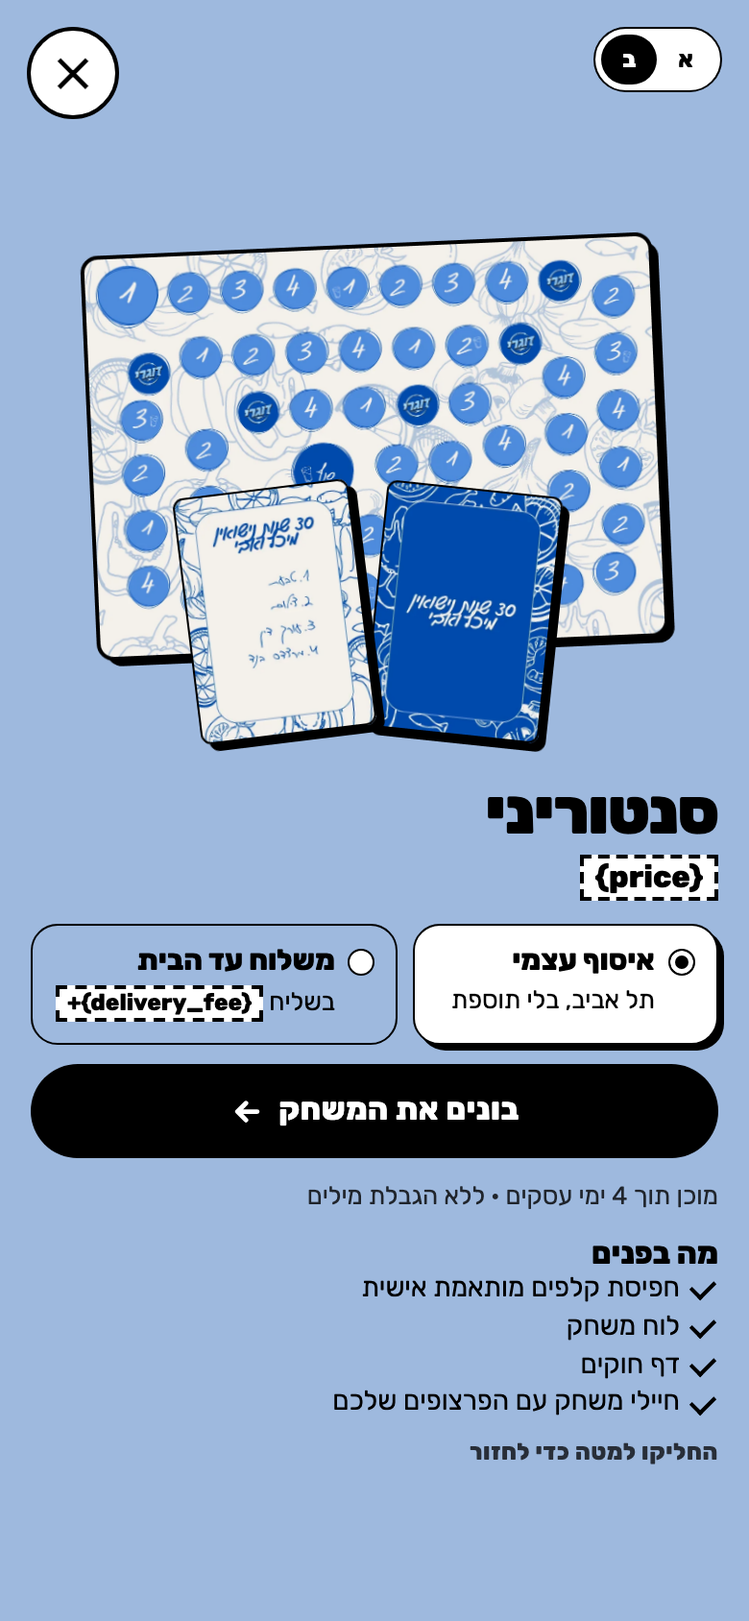
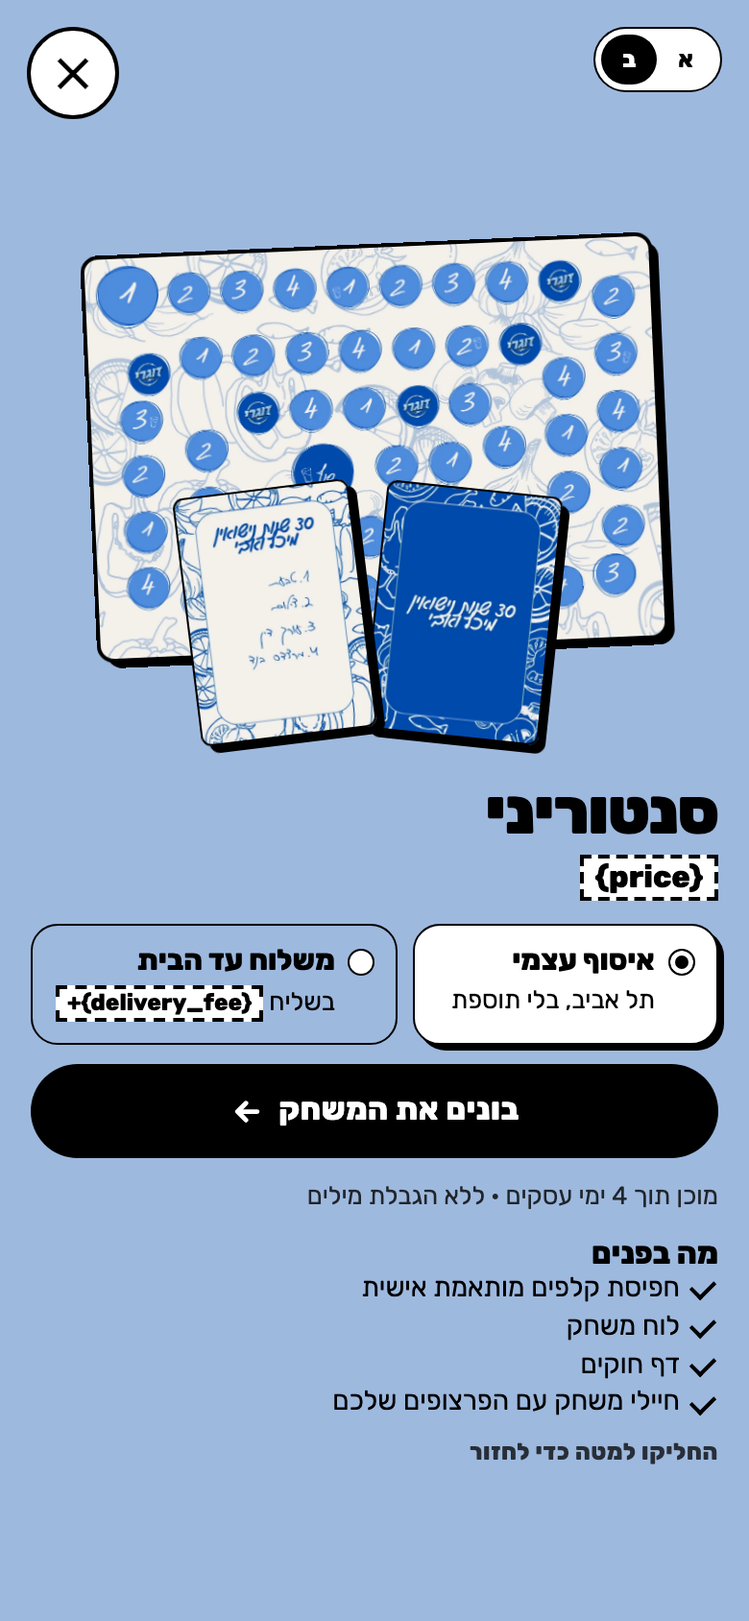
docs(redesign): r13 takes the owner's illustration placements, adds a blue star kind

diff --git a/redesign/directions/r13.html b/redesign/directions/r13.html
@@ -529,7 +529,7 @@
   </div>
 
   <div class="pal" id="pal" role="toolbar" aria-label="עורך האיורים">
-    <div class="row1"><button class="add" type="button" data-t="glass" title="שעון חול"><span class="illo"><svg class="il" viewBox="0 0 120 120" aria-hidden="true" focusable="false"><ellipse cx="60" cy="106" rx="26" ry="3.5" fill="#ece3d5" class="n"/><g class="a i13r" style="--d:10s;--dl:0s;--o:50% 50%;"><path class="n" d="M44,33 C44,48 56,55 57.5,62 C56,69 44,76 44,91 L76,91 C76,76 64,69 62.5,62 C64,55 76,48 76,33Z" fill="#fffdf8"/><g class="a i13a" style="--d:10s;--dl:0s;--o:50% 50%;"><path class="n" d="M47.5,38 C49,49 55,55 60,60 C65,55 71,49 72.5,38 Q60,41 47.5,38Z" fill="#f7dc72"/></g><g class="a i13b" style="--d:10s;--dl:0s;--o:50% 50%;"><path class="n" d="M46,92 Q49,79 60,77 Q71,79 74,92Z" fill="#f7dc72"/></g><path d="M60,63 V89" stroke="#f2c14e" stroke-width="1.6" class="a i13s" style="--d:10s"/><path d="M44,33 C44,48 56,55 57.5,62 C56,69 44,76 44,91 M76,33 C76,48 64,55 62.5,62 C64,69 76,76 76,91"/><path class="h" d="M48,36 C48,44 51,49 54,53 C51,48 50,43 50.5,36Z" opacity=".9"/><rect x="38" y="91" width="44" height="7" rx="3" fill="#f7b58e"/><rect x="38" y="26" width="44" height="7" rx="3" fill="#f7b58e"/><rect x="38.5" y="33" width="4" height="58" rx="2" fill="#ece3d5"/><rect x="77.5" y="33" width="4" height="58" rx="2" fill="#ece3d5"/></g><g class="a tw" style="--d:4s;--dl:0s;--o:50% 50%;"><path d="M22.0,27.0 Q22.8,31.2 27.0,32.0 Q22.8,32.8 22.0,37.0 Q21.2,32.8 17.0,32.0 Q21.2,31.2 22.0,27.0Z" fill="#f7dc72" /></g><g class="a tw" style="--d:5s;--dl:-2s;--o:50% 50%;"><path class="t" d="M96.0,36.0H104.0M100.0,32.0V40.0" /></g><circle class="t" cx="98" cy="80" r="2.4" fill="none"/><circle cx="22" cy="76" r="1.6" fill="#1b1a19" stroke="none"/></svg></span>שעון חול</button><button class="add" type="button" data-t="popper" title="פופר"><span class="illo"><svg class="il" viewBox="0 0 120 120" aria-hidden="true" focusable="false"><ellipse cx="40" cy="108" rx="26" ry="3" fill="#ece3d5" class="n"/><g class="a rise" style="--d:3.2s;--dl:0s;--o:50% 50%;--x:22px;--y:-30px"><rect x="62" y="48" width="9" height="5" rx="1.2" fill="#f0866a" class="t"/></g><g class="a rise" style="--d:3.2s;--dl:-0.5s;--o:50% 50%;--x:36px;--y:-22px"><circle cx="66" cy="52" r="3.4" fill="#9ed7bf" class="t"/></g><g class="a rise" style="--d:3.2s;--dl:-1s;--o:50% 50%;--x:30px;--y:-40px"><rect x="62" y="48" width="9" height="5" rx="1.2" fill="#c9b8ec" class="t"/></g><g class="a rise" style="--d:3.2s;--dl:-1.6s;--o:50% 50%;--x:40px;--y:-36px"><path d="M66.0,46.0 Q67.0,51.0 72.0,52.0 Q67.0,53.0 66.0,58.0 Q65.0,53.0 60.0,52.0 Q65.0,51.0 66.0,46.0Z" fill="#f7dc72" stroke-width="1.3" /></g><g class="a rise" style="--d:3.2s;--dl:-2.2s;--o:50% 50%;--x:14px;--y:-42px"><path d="M60,54 q3,-6 6,0 t6,0" stroke="#ea4795" stroke-width="2.4"/></g><g class="a rise" style="--d:3.2s;--dl:-2.8s;--o:50% 50%;--x:42px;--y:-8px"><rect x="62" y="48" width="9" height="5" rx="1.2" fill="#a8cdee" class="t"/></g><g class="a rise" style="--d:3.2s;--dl:-0.9s;--o:50% 50%;--x:24px;--y:-16px"><circle cx="66" cy="52" r="3.4" fill="#ea4795" class="t"/></g><g class="a rise" style="--d:3.2s;--dl:-3.3s;--o:50% 50%;--x:44px;--y:-26px"><path d="M60,54 q3,-6 6,0 t6,0" stroke="#9ed7bf" stroke-width="2.4"/></g><clipPath id="i25c"><path d="M25.5,103.5 L18.5,96.5 L56.2,50.2 L71.8,65.8Z"/></clipPath><path d="M25.5,103.5 L18.5,96.5 L56.2,50.2 L71.8,65.8Z" fill="#f7dc72"/><g clip-path="url(#i25c)"><path class="n" d="M-110,0 L10,120 L17,120 L-103,0Z" fill="#ea4795"/><path class="n" d="M-95,0 L25,120 L32,120 L-88,0Z" fill="#ea4795"/><path class="n" d="M-80,0 L40,120 L47,120 L-73,0Z" fill="#ea4795"/><path class="n" d="M-65,0 L55,120 L62,120 L-58,0Z" fill="#ea4795"/><path class="n" d="M-50,0 L70,120 L77,120 L-43,0Z" fill="#ea4795"/><path class="n" d="M-35,0 L85,120 L92,120 L-28,0Z" fill="#ea4795"/><path class="n" d="M-20,0 L100,120 L107,120 L-13,0Z" fill="#ea4795"/><path class="n" d="M-5,0 L115,120 L122,120 L2,0Z" fill="#ea4795"/><path class="n" d="M10,0 L130,120 L137,120 L17,0Z" fill="#ea4795"/><path class="n" d="M25,0 L145,120 L152,120 L32,0Z" fill="#ea4795"/><path class="n" d="M40,0 L160,120 L167,120 L47,0Z" fill="#ea4795"/><path class="n" d="M55,0 L175,120 L182,120 L62,0Z" fill="#ea4795"/><path class="n" d="M70,0 L190,120 L197,120 L77,0Z" fill="#ea4795"/></g><path d="M25.5,103.5 L18.5,96.5 L56.2,50.2 L71.8,65.8Z"/><ellipse cx="64" cy="58" rx="11" ry="4.2" transform="rotate(45 64 58)" fill="#fbf6ee"/><path d="M18.5,96.5 L25.5,103.5 L21,108 L14,101Z" fill="#ea4795"/><g class="a tw" style="--d:3.2s;--dl:-1s;--o:50% 50%;"><path d="M96.0,16.0 Q97.0,21.0 102.0,22.0 Q97.0,23.0 96.0,28.0 Q95.0,23.0 90.0,22.0 Q95.0,21.0 96.0,16.0Z" fill="#f7dc72" /></g><g class="a tw" style="--d:3.2s;--dl:-2s;--o:50% 50%;"><path class="t" d="M98.0,66.0H106.0M102.0,62.0V70.0" /></g><g class="a tw" style="--d:3.2s;--dl:-0.5s;--o:50% 50%;"><path class="t" d="M68.5,20.0H75.5M72.0,16.5V23.5" /></g></svg></span>פופר</button><button class="add" type="button" data-t="disco" title="כדור דיסקו"><span class="illo"><svg class="il" viewBox="0 0 120 120" aria-hidden="true" focusable="false"><path d="M60,8 V30" stroke-width="1.8"/><rect x="54" y="30" width="12" height="7" rx="2" fill="#ece3d5"/><g class="a sway" style="--d:3s;--dl:0s;--o:50% 0%;--r:3deg"><g><clipPath id="i27c"><circle cx="60" cy="64" r="28"/></clipPath><circle cx="60" cy="64" r="28" fill="#c9b8ec"/><g clip-path="url(#i27c)"><rect x="60" y="36" width="8" height="8" fill="#ffffff" stroke="none" opacity=".75"/><rect x="52" y="44" width="8" height="8" fill="#ffffff" stroke="none" opacity=".75"/><rect x="76" y="44" width="8" height="8" fill="#ffffff" stroke="none" opacity=".75"/><rect x="44" y="52" width="8" height="8" fill="#ffffff" stroke="none" opacity=".75"/><rect x="68" y="52" width="8" height="8" fill="#ffffff" stroke="none" opacity=".75"/><rect x="36" y="60" width="8" height="8" fill="#ffffff" stroke="none" opacity=".75"/><rect x="60" y="60" width="8" height="8" fill="#ffffff" stroke="none" opacity=".75"/><rect x="52" y="68" width="8" height="8" fill="#ffffff" stroke="none" opacity=".75"/><rect x="76" y="68" width="8" height="8" fill="#ffffff" stroke="none" opacity=".75"/><rect x="44" y="76" width="8" height="8" fill="#ffffff" stroke="none" opacity=".75"/><rect x="68" y="76" width="8" height="8" fill="#ffffff" stroke="none" opacity=".75"/><rect x="60" y="84" width="8" height="8" fill="#ffffff" stroke="none" opacity=".75"/><path class="n" d="M32,64 A28,28 0 0 0 88,64 Q60,76 32,64Z" fill="#a994da"/><path class="t" d="M45.6,40 H74.4"/><path class="t" d="M37.0,48 H83.0"/><path class="t" d="M33.2,56 H86.8"/><path class="t" d="M32.0,64 H88.0"/><path class="t" d="M33.2,72 H86.8"/><path class="t" d="M37.0,80 H83.0"/><path class="t" d="M45.6,88 H74.4"/><path class="t" d="M60,36 V92"/><ellipse class="t" cx="60" cy="64" rx="8" ry="28" fill="none"/><ellipse class="t" cx="60" cy="64" rx="17" ry="28" fill="none"/><ellipse class="t" cx="60" cy="64" rx="24" ry="28" fill="none"/></g><circle cx="60" cy="64" r="28" fill="none"/><path class="h" d="M44,52 l6,0 l0,6 l-6,0Z M52,46 l6,0 l0,5 l-6,0Z"/></g></g><g class="a tw" style="--d:2.6s;--dl:0s;--o:50% 50%;--r:90deg"><path d="M84.0,42.0 Q85.3,48.7 92.0,50.0 Q85.3,51.3 84.0,58.0 Q82.7,51.3 76.0,50.0 Q82.7,48.7 84.0,42.0Z" fill="#ffffff" /></g><g class="a tw" style="--d:2.6s;--dl:-1.3s;--o:50% 50%;--r:90deg"><path d="M40.0,74.0 Q41.0,79.0 46.0,80.0 Q41.0,81.0 40.0,86.0 Q39.0,81.0 34.0,80.0 Q39.0,79.0 40.0,74.0Z" fill="#ffffff" /></g><g class="a tw" style="--d:3.4s;--dl:-0.6s;--o:50% 50%;--r:-90deg"><path d="M100.0,78.0 Q101.0,83.0 106.0,84.0 Q101.0,85.0 100.0,90.0 Q99.0,85.0 94.0,84.0 Q99.0,83.0 100.0,78.0Z" fill="#f7dc72" /></g><g class="a tw" style="--d:3.4s;--dl:-2s;--o:50% 50%;--r:90deg"><path d="M20.0,41.0 Q20.8,45.2 25.0,46.0 Q20.8,46.8 20.0,51.0 Q19.2,46.8 15.0,46.0 Q19.2,45.2 20.0,41.0Z" fill="#ea4795" /></g><path class="t" d="M24,98 l6,-4 M96,22 l-5,4 M104,60 h-6"/></svg></span>כדור דיסקו</button><button class="add" type="button" data-t="sparks" title="נצנוצים"><span class="illo"><svg class="il" viewBox="0 0 120 120" aria-hidden="true" focusable="false"><g class="a tw" style="--d:3s;--dl:0s;--o:50% 50%;--r:45deg"><path d="M54.0,36.0 Q58.7,57.3 80.0,62.0 Q58.7,66.7 54.0,88.0 Q49.3,66.7 28.0,62.0 Q49.3,57.3 54.0,36.0Z" fill="#f7dc72" /></g><g class="a tw" style="--d:3s;--dl:-1s;--o:50% 50%;--r:-45deg"><path d="M88.0,17.0 Q90.3,27.7 101.0,30.0 Q90.3,32.3 88.0,43.0 Q85.7,32.3 75.0,30.0 Q85.7,27.7 88.0,17.0Z" fill="#ea4795" /></g><g class="a tw" style="--d:3s;--dl:-2s;--o:50% 50%;--r:45deg"><path d="M90.0,79.0 Q91.6,86.4 99.0,88.0 Q91.6,89.6 90.0,97.0 Q88.4,89.6 81.0,88.0 Q88.4,86.4 90.0,79.0Z" fill="#ffffff" /></g><circle cx="30" cy="28" r="1.6" fill="#1b1a19" stroke="none"/><circle cx="102" cy="60" r="1.4" fill="#1b1a19" stroke="none"/><circle class="t" cx="22" cy="96" r="2.4" fill="none"/><g class="a tw" style="--d:3s;--dl:-0.5s;--o:50% 50%;"><path class="t" d="M22.5,46.0H29.5M26.0,42.5V49.5" /></g></svg></span>נצנוצים</button><button class="add" type="button" data-t="star" title="כוכב שחור"><span class="illo"><svg class="il" viewBox="0 0 40 40" aria-hidden="true" focusable="false"><g class="a twk" style="--d:5.5s;--r:45deg"><path d="M20 2c1.6 9.6 8.4 16.4 18 18-9.6 1.6-16.4 8.4-18 18-1.6-9.6-8.4-16.4-18-18 9.6-1.6 16.4-8.4 18-18Z" fill="#000" stroke="#000" /></g></svg></span>כוכב שחור</button><button class="add" type="button" data-t="pstar" title="כוכב ורוד"><span class="illo"><svg class="il" viewBox="0 0 40 40" aria-hidden="true" focusable="false"><g class="a twk" style="--d:6.4s;--dl:-2s;--r:-45deg"><path d="M20 2c1.6 9.6 8.4 16.4 18 18-9.6 1.6-16.4 8.4-18 18-1.6-9.6-8.4-16.4-18-18 9.6-1.6 16.4-8.4 18-18Z" fill="#ea4795" stroke-width="2.4" /></g></svg></span>כוכב ורוד</button><button class="add" type="button" data-t="cross" title="פלוס"><span class="illo"><svg class="il" viewBox="0 0 16 16" aria-hidden="true" focusable="false"><g class="a twk" style="--d:7s;--dl:-3s;--r:0deg"><path d="M8 2v12M2 8h12" stroke-width="1.6" /></g></svg></span>פלוס</button></div>
+    <div class="row1"><button class="add" type="button" data-t="glass" title="שעון חול"><span class="illo"><svg class="il" viewBox="0 0 120 120" aria-hidden="true" focusable="false"><ellipse cx="60" cy="106" rx="26" ry="3.5" fill="#ece3d5" class="n"/><g class="a i13r" style="--d:10s;--dl:0s;--o:50% 50%;"><path class="n" d="M44,33 C44,48 56,55 57.5,62 C56,69 44,76 44,91 L76,91 C76,76 64,69 62.5,62 C64,55 76,48 76,33Z" fill="#fffdf8"/><g class="a i13a" style="--d:10s;--dl:0s;--o:50% 50%;"><path class="n" d="M47.5,38 C49,49 55,55 60,60 C65,55 71,49 72.5,38 Q60,41 47.5,38Z" fill="#f7dc72"/></g><g class="a i13b" style="--d:10s;--dl:0s;--o:50% 50%;"><path class="n" d="M46,92 Q49,79 60,77 Q71,79 74,92Z" fill="#f7dc72"/></g><path d="M60,63 V89" stroke="#f2c14e" stroke-width="1.6" class="a i13s" style="--d:10s"/><path d="M44,33 C44,48 56,55 57.5,62 C56,69 44,76 44,91 M76,33 C76,48 64,55 62.5,62 C64,69 76,76 76,91"/><path class="h" d="M48,36 C48,44 51,49 54,53 C51,48 50,43 50.5,36Z" opacity=".9"/><rect x="38" y="91" width="44" height="7" rx="3" fill="#f7b58e"/><rect x="38" y="26" width="44" height="7" rx="3" fill="#f7b58e"/><rect x="38.5" y="33" width="4" height="58" rx="2" fill="#ece3d5"/><rect x="77.5" y="33" width="4" height="58" rx="2" fill="#ece3d5"/></g><g class="a tw" style="--d:4s;--dl:0s;--o:50% 50%;"><path d="M22.0,27.0 Q22.8,31.2 27.0,32.0 Q22.8,32.8 22.0,37.0 Q21.2,32.8 17.0,32.0 Q21.2,31.2 22.0,27.0Z" fill="#f7dc72" /></g><g class="a tw" style="--d:5s;--dl:-2s;--o:50% 50%;"><path class="t" d="M96.0,36.0H104.0M100.0,32.0V40.0" /></g><circle class="t" cx="98" cy="80" r="2.4" fill="none"/><circle cx="22" cy="76" r="1.6" fill="#1b1a19" stroke="none"/></svg></span>שעון חול</button><button class="add" type="button" data-t="popper" title="פופר"><span class="illo"><svg class="il" viewBox="0 0 120 120" aria-hidden="true" focusable="false"><ellipse cx="40" cy="108" rx="26" ry="3" fill="#ece3d5" class="n"/><g class="a rise" style="--d:3.2s;--dl:0s;--o:50% 50%;--x:22px;--y:-30px"><rect x="62" y="48" width="9" height="5" rx="1.2" fill="#f0866a" class="t"/></g><g class="a rise" style="--d:3.2s;--dl:-0.5s;--o:50% 50%;--x:36px;--y:-22px"><circle cx="66" cy="52" r="3.4" fill="#9ed7bf" class="t"/></g><g class="a rise" style="--d:3.2s;--dl:-1s;--o:50% 50%;--x:30px;--y:-40px"><rect x="62" y="48" width="9" height="5" rx="1.2" fill="#c9b8ec" class="t"/></g><g class="a rise" style="--d:3.2s;--dl:-1.6s;--o:50% 50%;--x:40px;--y:-36px"><path d="M66.0,46.0 Q67.0,51.0 72.0,52.0 Q67.0,53.0 66.0,58.0 Q65.0,53.0 60.0,52.0 Q65.0,51.0 66.0,46.0Z" fill="#f7dc72" stroke-width="1.3" /></g><g class="a rise" style="--d:3.2s;--dl:-2.2s;--o:50% 50%;--x:14px;--y:-42px"><path d="M60,54 q3,-6 6,0 t6,0" stroke="#ea4795" stroke-width="2.4"/></g><g class="a rise" style="--d:3.2s;--dl:-2.8s;--o:50% 50%;--x:42px;--y:-8px"><rect x="62" y="48" width="9" height="5" rx="1.2" fill="#a8cdee" class="t"/></g><g class="a rise" style="--d:3.2s;--dl:-0.9s;--o:50% 50%;--x:24px;--y:-16px"><circle cx="66" cy="52" r="3.4" fill="#ea4795" class="t"/></g><g class="a rise" style="--d:3.2s;--dl:-3.3s;--o:50% 50%;--x:44px;--y:-26px"><path d="M60,54 q3,-6 6,0 t6,0" stroke="#9ed7bf" stroke-width="2.4"/></g><clipPath id="i25c"><path d="M25.5,103.5 L18.5,96.5 L56.2,50.2 L71.8,65.8Z"/></clipPath><path d="M25.5,103.5 L18.5,96.5 L56.2,50.2 L71.8,65.8Z" fill="#f7dc72"/><g clip-path="url(#i25c)"><path class="n" d="M-110,0 L10,120 L17,120 L-103,0Z" fill="#ea4795"/><path class="n" d="M-95,0 L25,120 L32,120 L-88,0Z" fill="#ea4795"/><path class="n" d="M-80,0 L40,120 L47,120 L-73,0Z" fill="#ea4795"/><path class="n" d="M-65,0 L55,120 L62,120 L-58,0Z" fill="#ea4795"/><path class="n" d="M-50,0 L70,120 L77,120 L-43,0Z" fill="#ea4795"/><path class="n" d="M-35,0 L85,120 L92,120 L-28,0Z" fill="#ea4795"/><path class="n" d="M-20,0 L100,120 L107,120 L-13,0Z" fill="#ea4795"/><path class="n" d="M-5,0 L115,120 L122,120 L2,0Z" fill="#ea4795"/><path class="n" d="M10,0 L130,120 L137,120 L17,0Z" fill="#ea4795"/><path class="n" d="M25,0 L145,120 L152,120 L32,0Z" fill="#ea4795"/><path class="n" d="M40,0 L160,120 L167,120 L47,0Z" fill="#ea4795"/><path class="n" d="M55,0 L175,120 L182,120 L62,0Z" fill="#ea4795"/><path class="n" d="M70,0 L190,120 L197,120 L77,0Z" fill="#ea4795"/></g><path d="M25.5,103.5 L18.5,96.5 L56.2,50.2 L71.8,65.8Z"/><ellipse cx="64" cy="58" rx="11" ry="4.2" transform="rotate(45 64 58)" fill="#fbf6ee"/><path d="M18.5,96.5 L25.5,103.5 L21,108 L14,101Z" fill="#ea4795"/><g class="a tw" style="--d:3.2s;--dl:-1s;--o:50% 50%;"><path d="M96.0,16.0 Q97.0,21.0 102.0,22.0 Q97.0,23.0 96.0,28.0 Q95.0,23.0 90.0,22.0 Q95.0,21.0 96.0,16.0Z" fill="#f7dc72" /></g><g class="a tw" style="--d:3.2s;--dl:-2s;--o:50% 50%;"><path class="t" d="M98.0,66.0H106.0M102.0,62.0V70.0" /></g><g class="a tw" style="--d:3.2s;--dl:-0.5s;--o:50% 50%;"><path class="t" d="M68.5,20.0H75.5M72.0,16.5V23.5" /></g></svg></span>פופר</button><button class="add" type="button" data-t="disco" title="כדור דיסקו"><span class="illo"><svg class="il" viewBox="0 0 120 120" aria-hidden="true" focusable="false"><path d="M60,8 V30" stroke-width="1.8"/><rect x="54" y="30" width="12" height="7" rx="2" fill="#ece3d5"/><g class="a sway" style="--d:3s;--dl:0s;--o:50% 0%;--r:3deg"><g><clipPath id="i27c"><circle cx="60" cy="64" r="28"/></clipPath><circle cx="60" cy="64" r="28" fill="#c9b8ec"/><g clip-path="url(#i27c)"><rect x="60" y="36" width="8" height="8" fill="#ffffff" stroke="none" opacity=".75"/><rect x="52" y="44" width="8" height="8" fill="#ffffff" stroke="none" opacity=".75"/><rect x="76" y="44" width="8" height="8" fill="#ffffff" stroke="none" opacity=".75"/><rect x="44" y="52" width="8" height="8" fill="#ffffff" stroke="none" opacity=".75"/><rect x="68" y="52" width="8" height="8" fill="#ffffff" stroke="none" opacity=".75"/><rect x="36" y="60" width="8" height="8" fill="#ffffff" stroke="none" opacity=".75"/><rect x="60" y="60" width="8" height="8" fill="#ffffff" stroke="none" opacity=".75"/><rect x="52" y="68" width="8" height="8" fill="#ffffff" stroke="none" opacity=".75"/><rect x="76" y="68" width="8" height="8" fill="#ffffff" stroke="none" opacity=".75"/><rect x="44" y="76" width="8" height="8" fill="#ffffff" stroke="none" opacity=".75"/><rect x="68" y="76" width="8" height="8" fill="#ffffff" stroke="none" opacity=".75"/><rect x="60" y="84" width="8" height="8" fill="#ffffff" stroke="none" opacity=".75"/><path class="n" d="M32,64 A28,28 0 0 0 88,64 Q60,76 32,64Z" fill="#a994da"/><path class="t" d="M45.6,40 H74.4"/><path class="t" d="M37.0,48 H83.0"/><path class="t" d="M33.2,56 H86.8"/><path class="t" d="M32.0,64 H88.0"/><path class="t" d="M33.2,72 H86.8"/><path class="t" d="M37.0,80 H83.0"/><path class="t" d="M45.6,88 H74.4"/><path class="t" d="M60,36 V92"/><ellipse class="t" cx="60" cy="64" rx="8" ry="28" fill="none"/><ellipse class="t" cx="60" cy="64" rx="17" ry="28" fill="none"/><ellipse class="t" cx="60" cy="64" rx="24" ry="28" fill="none"/></g><circle cx="60" cy="64" r="28" fill="none"/><path class="h" d="M44,52 l6,0 l0,6 l-6,0Z M52,46 l6,0 l0,5 l-6,0Z"/></g></g><g class="a tw" style="--d:2.6s;--dl:0s;--o:50% 50%;--r:90deg"><path d="M84.0,42.0 Q85.3,48.7 92.0,50.0 Q85.3,51.3 84.0,58.0 Q82.7,51.3 76.0,50.0 Q82.7,48.7 84.0,42.0Z" fill="#ffffff" /></g><g class="a tw" style="--d:2.6s;--dl:-1.3s;--o:50% 50%;--r:90deg"><path d="M40.0,74.0 Q41.0,79.0 46.0,80.0 Q41.0,81.0 40.0,86.0 Q39.0,81.0 34.0,80.0 Q39.0,79.0 40.0,74.0Z" fill="#ffffff" /></g><g class="a tw" style="--d:3.4s;--dl:-0.6s;--o:50% 50%;--r:-90deg"><path d="M100.0,78.0 Q101.0,83.0 106.0,84.0 Q101.0,85.0 100.0,90.0 Q99.0,85.0 94.0,84.0 Q99.0,83.0 100.0,78.0Z" fill="#f7dc72" /></g><g class="a tw" style="--d:3.4s;--dl:-2s;--o:50% 50%;--r:90deg"><path d="M20.0,41.0 Q20.8,45.2 25.0,46.0 Q20.8,46.8 20.0,51.0 Q19.2,46.8 15.0,46.0 Q19.2,45.2 20.0,41.0Z" fill="#ea4795" /></g><path class="t" d="M24,98 l6,-4 M96,22 l-5,4 M104,60 h-6"/></svg></span>כדור דיסקו</button><button class="add" type="button" data-t="sparks" title="נצנוצים"><span class="illo"><svg class="il" viewBox="0 0 120 120" aria-hidden="true" focusable="false"><g class="a tw" style="--d:3s;--dl:0s;--o:50% 50%;--r:45deg"><path d="M54.0,36.0 Q58.7,57.3 80.0,62.0 Q58.7,66.7 54.0,88.0 Q49.3,66.7 28.0,62.0 Q49.3,57.3 54.0,36.0Z" fill="#f7dc72" /></g><g class="a tw" style="--d:3s;--dl:-1s;--o:50% 50%;--r:-45deg"><path d="M88.0,17.0 Q90.3,27.7 101.0,30.0 Q90.3,32.3 88.0,43.0 Q85.7,32.3 75.0,30.0 Q85.7,27.7 88.0,17.0Z" fill="#ea4795" /></g><g class="a tw" style="--d:3s;--dl:-2s;--o:50% 50%;--r:45deg"><path d="M90.0,79.0 Q91.6,86.4 99.0,88.0 Q91.6,89.6 90.0,97.0 Q88.4,89.6 81.0,88.0 Q88.4,86.4 90.0,79.0Z" fill="#ffffff" /></g><circle cx="30" cy="28" r="1.6" fill="#1b1a19" stroke="none"/><circle cx="102" cy="60" r="1.4" fill="#1b1a19" stroke="none"/><circle class="t" cx="22" cy="96" r="2.4" fill="none"/><g class="a tw" style="--d:3s;--dl:-0.5s;--o:50% 50%;"><path class="t" d="M22.5,46.0H29.5M26.0,42.5V49.5" /></g></svg></span>נצנוצים</button><button class="add" type="button" data-t="star" title="כוכב שחור"><span class="illo"><svg class="il" viewBox="0 0 40 40" aria-hidden="true" focusable="false"><g class="a twk" style="--d:5.5s;--r:45deg"><path d="M20 2c1.6 9.6 8.4 16.4 18 18-9.6 1.6-16.4 8.4-18 18-1.6-9.6-8.4-16.4-18-18 9.6-1.6 16.4-8.4 18-18Z" fill="#000" stroke="#000" /></g></svg></span>כוכב שחור</button><button class="add" type="button" data-t="bstar" title="כוכב תכלת"><span class="illo"><svg class="il" viewBox="0 0 40 40" aria-hidden="true" focusable="false"><g class="a twk" style="--d:6s;--dl:-1s;--r:45deg"><path d="M20 2c1.6 9.6 8.4 16.4 18 18-9.6 1.6-16.4 8.4-18 18-1.6-9.6-8.4-16.4-18-18 9.6-1.6 16.4-8.4 18-18Z" fill="#a4e9ff" stroke-width="2.4" /></g></svg></span>כוכב תכלת</button><button class="add" type="button" data-t="pstar" title="כוכב ורוד"><span class="illo"><svg class="il" viewBox="0 0 40 40" aria-hidden="true" focusable="false"><g class="a twk" style="--d:6.4s;--dl:-2s;--r:-45deg"><path d="M20 2c1.6 9.6 8.4 16.4 18 18-9.6 1.6-16.4 8.4-18 18-1.6-9.6-8.4-16.4-18-18 9.6-1.6 16.4-8.4 18-18Z" fill="#ea4795" stroke-width="2.4" /></g></svg></span>כוכב ורוד</button><button class="add" type="button" data-t="cross" title="פלוס"><span class="illo"><svg class="il" viewBox="0 0 16 16" aria-hidden="true" focusable="false"><g class="a twk" style="--d:7s;--dl:-3s;--r:0deg"><path d="M8 2v12M2 8h12" stroke-width="1.6" /></g></svg></span>פלוס</button></div>
     <div class="row2">
       <button class="t" type="button" data-bp="m">טלפון</button><button class="t" type="button" data-bp="d">מחשב</button>
       <button class="t" type="button" id="plDup" disabled>⧉ שכפול</button><button class="t" type="button" id="plDel" disabled>✕ מחיקה</button>
@@ -1032,8 +1032,8 @@
   /* ---------- illustrations: placed from PLACEMENTS (normal view) or edited at #place ----------
      A layout is { m: phone, d: desktop }, each a list of [type, section, x%, y%, width px, turn deg]; x and y are the item's centre
      in % of its section's width and height, so it holds on any width of the same layout. */
-  const ILL = {"glass": ["שעון חול", "<svg class=\"il\" viewBox=\"0 0 120 120\" aria-hidden=\"true\" focusable=\"false\"><ellipse cx=\"60\" cy=\"106\" rx=\"26\" ry=\"3.5\" fill=\"#ece3d5\" class=\"n\"/><g class=\"a i13r\" style=\"--d:10s;--dl:0s;--o:50% 50%;\"><path class=\"n\" d=\"M44,33 C44,48 56,55 57.5,62 C56,69 44,76 44,91 L76,91 C76,76 64,69 62.5,62 C64,55 76,48 76,33Z\" fill=\"#fffdf8\"/><g class=\"a i13a\" style=\"--d:10s;--dl:0s;--o:50% 50%;\"><path class=\"n\" d=\"M47.5,38 C49,49 55,55 60,60 C65,55 71,49 72.5,38 Q60,41 47.5,38Z\" fill=\"#f7dc72\"/></g><g class=\"a i13b\" style=\"--d:10s;--dl:0s;--o:50% 50%;\"><path class=\"n\" d=\"M46,92 Q49,79 60,77 Q71,79 74,92Z\" fill=\"#f7dc72\"/></g><path d=\"M60,63 V89\" stroke=\"#f2c14e\" stroke-width=\"1.6\" class=\"a i13s\" style=\"--d:10s\"/><path d=\"M44,33 C44,48 56,55 57.5,62 C56,69 44,76 44,91 M76,33 C76,48 64,55 62.5,62 C64,69 76,76 76,91\"/><path class=\"h\" d=\"M48,36 C48,44 51,49 54,53 C51,48 50,43 50.5,36Z\" opacity=\".9\"/><rect x=\"38\" y=\"91\" width=\"44\" height=\"7\" rx=\"3\" fill=\"#f7b58e\"/><rect x=\"38\" y=\"26\" width=\"44\" height=\"7\" rx=\"3\" fill=\"#f7b58e\"/><rect x=\"38.5\" y=\"33\" width=\"4\" height=\"58\" rx=\"2\" fill=\"#ece3d5\"/><rect x=\"77.5\" y=\"33\" width=\"4\" height=\"58\" rx=\"2\" fill=\"#ece3d5\"/></g><g class=\"a tw\" style=\"--d:4s;--dl:0s;--o:50% 50%;\"><path d=\"M22.0,27.0 Q22.8,31.2 27.0,32.0 Q22.8,32.8 22.0,37.0 Q21.2,32.8 17.0,32.0 Q21.2,31.2 22.0,27.0Z\" fill=\"#f7dc72\" /></g><g class=\"a tw\" style=\"--d:5s;--dl:-2s;--o:50% 50%;\"><path class=\"t\" d=\"M96.0,36.0H104.0M100.0,32.0V40.0\" /></g><circle class=\"t\" cx=\"98\" cy=\"80\" r=\"2.4\" fill=\"none\"/><circle cx=\"22\" cy=\"76\" r=\"1.6\" fill=\"#1b1a19\" stroke=\"none\"/></svg>"], "popper": ["פופר", "<svg class=\"il\" viewBox=\"0 0 120 120\" aria-hidden=\"true\" focusable=\"false\"><ellipse cx=\"40\" cy=\"108\" rx=\"26\" ry=\"3\" fill=\"#ece3d5\" class=\"n\"/><g class=\"a rise\" style=\"--d:3.2s;--dl:0s;--o:50% 50%;--x:22px;--y:-30px\"><rect x=\"62\" y=\"48\" width=\"9\" height=\"5\" rx=\"1.2\" fill=\"#f0866a\" class=\"t\"/></g><g class=\"a rise\" style=\"--d:3.2s;--dl:-0.5s;--o:50% 50%;--x:36px;--y:-22px\"><circle cx=\"66\" cy=\"52\" r=\"3.4\" fill=\"#9ed7bf\" class=\"t\"/></g><g class=\"a rise\" style=\"--d:3.2s;--dl:-1s;--o:50% 50%;--x:30px;--y:-40px\"><rect x=\"62\" y=\"48\" width=\"9\" height=\"5\" rx=\"1.2\" fill=\"#c9b8ec\" class=\"t\"/></g><g class=\"a rise\" style=\"--d:3.2s;--dl:-1.6s;--o:50% 50%;--x:40px;--y:-36px\"><path d=\"M66.0,46.0 Q67.0,51.0 72.0,52.0 Q67.0,53.0 66.0,58.0 Q65.0,53.0 60.0,52.0 Q65.0,51.0 66.0,46.0Z\" fill=\"#f7dc72\" stroke-width=\"1.3\" /></g><g class=\"a rise\" style=\"--d:3.2s;--dl:-2.2s;--o:50% 50%;--x:14px;--y:-42px\"><path d=\"M60,54 q3,-6 6,0 t6,0\" stroke=\"#ea4795\" stroke-width=\"2.4\"/></g><g class=\"a rise\" style=\"--d:3.2s;--dl:-2.8s;--o:50% 50%;--x:42px;--y:-8px\"><rect x=\"62\" y=\"48\" width=\"9\" height=\"5\" rx=\"1.2\" fill=\"#a8cdee\" class=\"t\"/></g><g class=\"a rise\" style=\"--d:3.2s;--dl:-0.9s;--o:50% 50%;--x:24px;--y:-16px\"><circle cx=\"66\" cy=\"52\" r=\"3.4\" fill=\"#ea4795\" class=\"t\"/></g><g class=\"a rise\" style=\"--d:3.2s;--dl:-3.3s;--o:50% 50%;--x:44px;--y:-26px\"><path d=\"M60,54 q3,-6 6,0 t6,0\" stroke=\"#9ed7bf\" stroke-width=\"2.4\"/></g><clipPath id=\"i25c\"><path d=\"M25.5,103.5 L18.5,96.5 L56.2,50.2 L71.8,65.8Z\"/></clipPath><path d=\"M25.5,103.5 L18.5,96.5 L56.2,50.2 L71.8,65.8Z\" fill=\"#f7dc72\"/><g clip-path=\"url(#i25c)\"><path class=\"n\" d=\"M-110,0 L10,120 L17,120 L-103,0Z\" fill=\"#ea4795\"/><path class=\"n\" d=\"M-95,0 L25,120 L32,120 L-88,0Z\" fill=\"#ea4795\"/><path class=\"n\" d=\"M-80,0 L40,120 L47,120 L-73,0Z\" fill=\"#ea4795\"/><path class=\"n\" d=\"M-65,0 L55,120 L62,120 L-58,0Z\" fill=\"#ea4795\"/><path class=\"n\" d=\"M-50,0 L70,120 L77,120 L-43,0Z\" fill=\"#ea4795\"/><path class=\"n\" d=\"M-35,0 L85,120 L92,120 L-28,0Z\" fill=\"#ea4795\"/><path class=\"n\" d=\"M-20,0 L100,120 L107,120 L-13,0Z\" fill=\"#ea4795\"/><path class=\"n\" d=\"M-5,0 L115,120 L122,120 L2,0Z\" fill=\"#ea4795\"/><path class=\"n\" d=\"M10,0 L130,120 L137,120 L17,0Z\" fill=\"#ea4795\"/><path class=\"n\" d=\"M25,0 L145,120 L152,120 L32,0Z\" fill=\"#ea4795\"/><path class=\"n\" d=\"M40,0 L160,120 L167,120 L47,0Z\" fill=\"#ea4795\"/><path class=\"n\" d=\"M55,0 L175,120 L182,120 L62,0Z\" fill=\"#ea4795\"/><path class=\"n\" d=\"M70,0 L190,120 L197,120 L77,0Z\" fill=\"#ea4795\"/></g><path d=\"M25.5,103.5 L18.5,96.5 L56.2,50.2 L71.8,65.8Z\"/><ellipse cx=\"64\" cy=\"58\" rx=\"11\" ry=\"4.2\" transform=\"rotate(45 64 58)\" fill=\"#fbf6ee\"/><path d=\"M18.5,96.5 L25.5,103.5 L21,108 L14,101Z\" fill=\"#ea4795\"/><g class=\"a tw\" style=\"--d:3.2s;--dl:-1s;--o:50% 50%;\"><path d=\"M96.0,16.0 Q97.0,21.0 102.0,22.0 Q97.0,23.0 96.0,28.0 Q95.0,23.0 90.0,22.0 Q95.0,21.0 96.0,16.0Z\" fill=\"#f7dc72\" /></g><g class=\"a tw\" style=\"--d:3.2s;--dl:-2s;--o:50% 50%;\"><path class=\"t\" d=\"M98.0,66.0H106.0M102.0,62.0V70.0\" /></g><g class=\"a tw\" style=\"--d:3.2s;--dl:-0.5s;--o:50% 50%;\"><path class=\"t\" d=\"M68.5,20.0H75.5M72.0,16.5V23.5\" /></g></svg>"], "disco": ["כדור דיסקו", "<svg class=\"il\" viewBox=\"0 0 120 120\" aria-hidden=\"true\" focusable=\"false\"><path d=\"M60,8 V30\" stroke-width=\"1.8\"/><rect x=\"54\" y=\"30\" width=\"12\" height=\"7\" rx=\"2\" fill=\"#ece3d5\"/><g class=\"a sway\" style=\"--d:3s;--dl:0s;--o:50% 0%;--r:3deg\"><g><clipPath id=\"i27c\"><circle cx=\"60\" cy=\"64\" r=\"28\"/></clipPath><circle cx=\"60\" cy=\"64\" r=\"28\" fill=\"#c9b8ec\"/><g clip-path=\"url(#i27c)\"><rect x=\"60\" y=\"36\" width=\"8\" height=\"8\" fill=\"#ffffff\" stroke=\"none\" opacity=\".75\"/><rect x=\"52\" y=\"44\" width=\"8\" height=\"8\" fill=\"#ffffff\" stroke=\"none\" opacity=\".75\"/><rect x=\"76\" y=\"44\" width=\"8\" height=\"8\" fill=\"#ffffff\" stroke=\"none\" opacity=\".75\"/><rect x=\"44\" y=\"52\" width=\"8\" height=\"8\" fill=\"#ffffff\" stroke=\"none\" opacity=\".75\"/><rect x=\"68\" y=\"52\" width=\"8\" height=\"8\" fill=\"#ffffff\" stroke=\"none\" opacity=\".75\"/><rect x=\"36\" y=\"60\" width=\"8\" height=\"8\" fill=\"#ffffff\" stroke=\"none\" opacity=\".75\"/><rect x=\"60\" y=\"60\" width=\"8\" height=\"8\" fill=\"#ffffff\" stroke=\"none\" opacity=\".75\"/><rect x=\"52\" y=\"68\" width=\"8\" height=\"8\" fill=\"#ffffff\" stroke=\"none\" opacity=\".75\"/><rect x=\"76\" y=\"68\" width=\"8\" height=\"8\" fill=\"#ffffff\" stroke=\"none\" opacity=\".75\"/><rect x=\"44\" y=\"76\" width=\"8\" height=\"8\" fill=\"#ffffff\" stroke=\"none\" opacity=\".75\"/><rect x=\"68\" y=\"76\" width=\"8\" height=\"8\" fill=\"#ffffff\" stroke=\"none\" opacity=\".75\"/><rect x=\"60\" y=\"84\" width=\"8\" height=\"8\" fill=\"#ffffff\" stroke=\"none\" opacity=\".75\"/><path class=\"n\" d=\"M32,64 A28,28 0 0 0 88,64 Q60,76 32,64Z\" fill=\"#a994da\"/><path class=\"t\" d=\"M45.6,40 H74.4\"/><path class=\"t\" d=\"M37.0,48 H83.0\"/><path class=\"t\" d=\"M33.2,56 H86.8\"/><path class=\"t\" d=\"M32.0,64 H88.0\"/><path class=\"t\" d=\"M33.2,72 H86.8\"/><path class=\"t\" d=\"M37.0,80 H83.0\"/><path class=\"t\" d=\"M45.6,88 H74.4\"/><path class=\"t\" d=\"M60,36 V92\"/><ellipse class=\"t\" cx=\"60\" cy=\"64\" rx=\"8\" ry=\"28\" fill=\"none\"/><ellipse class=\"t\" cx=\"60\" cy=\"64\" rx=\"17\" ry=\"28\" fill=\"none\"/><ellipse class=\"t\" cx=\"60\" cy=\"64\" rx=\"24\" ry=\"28\" fill=\"none\"/></g><circle cx=\"60\" cy=\"64\" r=\"28\" fill=\"none\"/><path class=\"h\" d=\"M44,52 l6,0 l0,6 l-6,0Z M52,46 l6,0 l0,5 l-6,0Z\"/></g></g><g class=\"a tw\" style=\"--d:2.6s;--dl:0s;--o:50% 50%;--r:90deg\"><path d=\"M84.0,42.0 Q85.3,48.7 92.0,50.0 Q85.3,51.3 84.0,58.0 Q82.7,51.3 76.0,50.0 Q82.7,48.7 84.0,42.0Z\" fill=\"#ffffff\" /></g><g class=\"a tw\" style=\"--d:2.6s;--dl:-1.3s;--o:50% 50%;--r:90deg\"><path d=\"M40.0,74.0 Q41.0,79.0 46.0,80.0 Q41.0,81.0 40.0,86.0 Q39.0,81.0 34.0,80.0 Q39.0,79.0 40.0,74.0Z\" fill=\"#ffffff\" /></g><g class=\"a tw\" style=\"--d:3.4s;--dl:-0.6s;--o:50% 50%;--r:-90deg\"><path d=\"M100.0,78.0 Q101.0,83.0 106.0,84.0 Q101.0,85.0 100.0,90.0 Q99.0,85.0 94.0,84.0 Q99.0,83.0 100.0,78.0Z\" fill=\"#f7dc72\" /></g><g class=\"a tw\" style=\"--d:3.4s;--dl:-2s;--o:50% 50%;--r:90deg\"><path d=\"M20.0,41.0 Q20.8,45.2 25.0,46.0 Q20.8,46.8 20.0,51.0 Q19.2,46.8 15.0,46.0 Q19.2,45.2 20.0,41.0Z\" fill=\"#ea4795\" /></g><path class=\"t\" d=\"M24,98 l6,-4 M96,22 l-5,4 M104,60 h-6\"/></svg>"], "sparks": ["נצנוצים", "<svg class=\"il\" viewBox=\"0 0 120 120\" aria-hidden=\"true\" focusable=\"false\"><g class=\"a tw\" style=\"--d:3s;--dl:0s;--o:50% 50%;--r:45deg\"><path d=\"M54.0,36.0 Q58.7,57.3 80.0,62.0 Q58.7,66.7 54.0,88.0 Q49.3,66.7 28.0,62.0 Q49.3,57.3 54.0,36.0Z\" fill=\"#f7dc72\" /></g><g class=\"a tw\" style=\"--d:3s;--dl:-1s;--o:50% 50%;--r:-45deg\"><path d=\"M88.0,17.0 Q90.3,27.7 101.0,30.0 Q90.3,32.3 88.0,43.0 Q85.7,32.3 75.0,30.0 Q85.7,27.7 88.0,17.0Z\" fill=\"#ea4795\" /></g><g class=\"a tw\" style=\"--d:3s;--dl:-2s;--o:50% 50%;--r:45deg\"><path d=\"M90.0,79.0 Q91.6,86.4 99.0,88.0 Q91.6,89.6 90.0,97.0 Q88.4,89.6 81.0,88.0 Q88.4,86.4 90.0,79.0Z\" fill=\"#ffffff\" /></g><circle cx=\"30\" cy=\"28\" r=\"1.6\" fill=\"#1b1a19\" stroke=\"none\"/><circle cx=\"102\" cy=\"60\" r=\"1.4\" fill=\"#1b1a19\" stroke=\"none\"/><circle class=\"t\" cx=\"22\" cy=\"96\" r=\"2.4\" fill=\"none\"/><g class=\"a tw\" style=\"--d:3s;--dl:-0.5s;--o:50% 50%;\"><path class=\"t\" d=\"M22.5,46.0H29.5M26.0,42.5V49.5\" /></g></svg>"], "star": ["כוכב שחור", "<svg class=\"il\" viewBox=\"0 0 40 40\" aria-hidden=\"true\" focusable=\"false\"><g class=\"a twk\" style=\"--d:5.5s;--r:45deg\"><path d=\"M20 2c1.6 9.6 8.4 16.4 18 18-9.6 1.6-16.4 8.4-18 18-1.6-9.6-8.4-16.4-18-18 9.6-1.6 16.4-8.4 18-18Z\" fill=\"#000\" stroke=\"#000\" /></g></svg>"], "pstar": ["כוכב ורוד", "<svg class=\"il\" viewBox=\"0 0 40 40\" aria-hidden=\"true\" focusable=\"false\"><g class=\"a twk\" style=\"--d:6.4s;--dl:-2s;--r:-45deg\"><path d=\"M20 2c1.6 9.6 8.4 16.4 18 18-9.6 1.6-16.4 8.4-18 18-1.6-9.6-8.4-16.4-18-18 9.6-1.6 16.4-8.4 18-18Z\" fill=\"#ea4795\" stroke-width=\"2.4\" /></g></svg>"], "cross": ["פלוס", "<svg class=\"il\" viewBox=\"0 0 16 16\" aria-hidden=\"true\" focusable=\"false\"><g class=\"a twk\" style=\"--d:7s;--dl:-3s;--r:0deg\"><path d=\"M8 2v12M2 8h12\" stroke-width=\"1.6\" /></g></svg>"]};
-  const PLACEMENTS = {"m": [["sparks", "top", 19.4, 35, 40, -6], ["star", "top", 21.8, 66.2, 22, -10], ["cross", "top", 35, 92.6, 16, 0], ["pstar", "top", 12.2, 91, 16, -14], ["popper", "order", 9.4, 7.8, 40, -6], ["star", "order", 9.4, 77.8, 18, -10], ["cross", "order", 83, 84.2, 14, 0], ["disco", "recs", 27.8, 17, 48, 6], ["cross", "recs", 28.2, 92.6, 14, 0], ["glass", "story", 31.4, 13.8, 46, 5], ["pstar", "story", 36.4, 7.8, 18, 18], ["star", "story", 58.6, 50, 16, -14]], "d": [["sparks", "top", 18.2, 19, 56, -6], ["star", "top", 51.4, 7.4, 20, -10], ["star", "top", 35.8, 53.8, 24, 18], ["cross", "top", 28.2, 90.2, 22, 0], ["pstar", "top", 14.6, 87.8, 22, 12], ["popper", "order", 27, 10.6, 84, 5], ["star", "order", 36.6, 78.2, 26, 18], ["cross", "order", 61.4, 84.6, 18, 0], ["disco", "recs", 59.8, 19, 76, -6], ["glass", "story", 62.2, 25.4, 70, 5], ["pstar", "story", 57.4, 14.2, 26, 18], ["star", "story", 85.8, 84.2, 22, -14]]};
+  const ILL = {"glass": ["שעון חול", "<svg class=\"il\" viewBox=\"0 0 120 120\" aria-hidden=\"true\" focusable=\"false\"><ellipse cx=\"60\" cy=\"106\" rx=\"26\" ry=\"3.5\" fill=\"#ece3d5\" class=\"n\"/><g class=\"a i13r\" style=\"--d:10s;--dl:0s;--o:50% 50%;\"><path class=\"n\" d=\"M44,33 C44,48 56,55 57.5,62 C56,69 44,76 44,91 L76,91 C76,76 64,69 62.5,62 C64,55 76,48 76,33Z\" fill=\"#fffdf8\"/><g class=\"a i13a\" style=\"--d:10s;--dl:0s;--o:50% 50%;\"><path class=\"n\" d=\"M47.5,38 C49,49 55,55 60,60 C65,55 71,49 72.5,38 Q60,41 47.5,38Z\" fill=\"#f7dc72\"/></g><g class=\"a i13b\" style=\"--d:10s;--dl:0s;--o:50% 50%;\"><path class=\"n\" d=\"M46,92 Q49,79 60,77 Q71,79 74,92Z\" fill=\"#f7dc72\"/></g><path d=\"M60,63 V89\" stroke=\"#f2c14e\" stroke-width=\"1.6\" class=\"a i13s\" style=\"--d:10s\"/><path d=\"M44,33 C44,48 56,55 57.5,62 C56,69 44,76 44,91 M76,33 C76,48 64,55 62.5,62 C64,69 76,76 76,91\"/><path class=\"h\" d=\"M48,36 C48,44 51,49 54,53 C51,48 50,43 50.5,36Z\" opacity=\".9\"/><rect x=\"38\" y=\"91\" width=\"44\" height=\"7\" rx=\"3\" fill=\"#f7b58e\"/><rect x=\"38\" y=\"26\" width=\"44\" height=\"7\" rx=\"3\" fill=\"#f7b58e\"/><rect x=\"38.5\" y=\"33\" width=\"4\" height=\"58\" rx=\"2\" fill=\"#ece3d5\"/><rect x=\"77.5\" y=\"33\" width=\"4\" height=\"58\" rx=\"2\" fill=\"#ece3d5\"/></g><g class=\"a tw\" style=\"--d:4s;--dl:0s;--o:50% 50%;\"><path d=\"M22.0,27.0 Q22.8,31.2 27.0,32.0 Q22.8,32.8 22.0,37.0 Q21.2,32.8 17.0,32.0 Q21.2,31.2 22.0,27.0Z\" fill=\"#f7dc72\" /></g><g class=\"a tw\" style=\"--d:5s;--dl:-2s;--o:50% 50%;\"><path class=\"t\" d=\"M96.0,36.0H104.0M100.0,32.0V40.0\" /></g><circle class=\"t\" cx=\"98\" cy=\"80\" r=\"2.4\" fill=\"none\"/><circle cx=\"22\" cy=\"76\" r=\"1.6\" fill=\"#1b1a19\" stroke=\"none\"/></svg>"], "popper": ["פופר", "<svg class=\"il\" viewBox=\"0 0 120 120\" aria-hidden=\"true\" focusable=\"false\"><ellipse cx=\"40\" cy=\"108\" rx=\"26\" ry=\"3\" fill=\"#ece3d5\" class=\"n\"/><g class=\"a rise\" style=\"--d:3.2s;--dl:0s;--o:50% 50%;--x:22px;--y:-30px\"><rect x=\"62\" y=\"48\" width=\"9\" height=\"5\" rx=\"1.2\" fill=\"#f0866a\" class=\"t\"/></g><g class=\"a rise\" style=\"--d:3.2s;--dl:-0.5s;--o:50% 50%;--x:36px;--y:-22px\"><circle cx=\"66\" cy=\"52\" r=\"3.4\" fill=\"#9ed7bf\" class=\"t\"/></g><g class=\"a rise\" style=\"--d:3.2s;--dl:-1s;--o:50% 50%;--x:30px;--y:-40px\"><rect x=\"62\" y=\"48\" width=\"9\" height=\"5\" rx=\"1.2\" fill=\"#c9b8ec\" class=\"t\"/></g><g class=\"a rise\" style=\"--d:3.2s;--dl:-1.6s;--o:50% 50%;--x:40px;--y:-36px\"><path d=\"M66.0,46.0 Q67.0,51.0 72.0,52.0 Q67.0,53.0 66.0,58.0 Q65.0,53.0 60.0,52.0 Q65.0,51.0 66.0,46.0Z\" fill=\"#f7dc72\" stroke-width=\"1.3\" /></g><g class=\"a rise\" style=\"--d:3.2s;--dl:-2.2s;--o:50% 50%;--x:14px;--y:-42px\"><path d=\"M60,54 q3,-6 6,0 t6,0\" stroke=\"#ea4795\" stroke-width=\"2.4\"/></g><g class=\"a rise\" style=\"--d:3.2s;--dl:-2.8s;--o:50% 50%;--x:42px;--y:-8px\"><rect x=\"62\" y=\"48\" width=\"9\" height=\"5\" rx=\"1.2\" fill=\"#a8cdee\" class=\"t\"/></g><g class=\"a rise\" style=\"--d:3.2s;--dl:-0.9s;--o:50% 50%;--x:24px;--y:-16px\"><circle cx=\"66\" cy=\"52\" r=\"3.4\" fill=\"#ea4795\" class=\"t\"/></g><g class=\"a rise\" style=\"--d:3.2s;--dl:-3.3s;--o:50% 50%;--x:44px;--y:-26px\"><path d=\"M60,54 q3,-6 6,0 t6,0\" stroke=\"#9ed7bf\" stroke-width=\"2.4\"/></g><clipPath id=\"i25c\"><path d=\"M25.5,103.5 L18.5,96.5 L56.2,50.2 L71.8,65.8Z\"/></clipPath><path d=\"M25.5,103.5 L18.5,96.5 L56.2,50.2 L71.8,65.8Z\" fill=\"#f7dc72\"/><g clip-path=\"url(#i25c)\"><path class=\"n\" d=\"M-110,0 L10,120 L17,120 L-103,0Z\" fill=\"#ea4795\"/><path class=\"n\" d=\"M-95,0 L25,120 L32,120 L-88,0Z\" fill=\"#ea4795\"/><path class=\"n\" d=\"M-80,0 L40,120 L47,120 L-73,0Z\" fill=\"#ea4795\"/><path class=\"n\" d=\"M-65,0 L55,120 L62,120 L-58,0Z\" fill=\"#ea4795\"/><path class=\"n\" d=\"M-50,0 L70,120 L77,120 L-43,0Z\" fill=\"#ea4795\"/><path class=\"n\" d=\"M-35,0 L85,120 L92,120 L-28,0Z\" fill=\"#ea4795\"/><path class=\"n\" d=\"M-20,0 L100,120 L107,120 L-13,0Z\" fill=\"#ea4795\"/><path class=\"n\" d=\"M-5,0 L115,120 L122,120 L2,0Z\" fill=\"#ea4795\"/><path class=\"n\" d=\"M10,0 L130,120 L137,120 L17,0Z\" fill=\"#ea4795\"/><path class=\"n\" d=\"M25,0 L145,120 L152,120 L32,0Z\" fill=\"#ea4795\"/><path class=\"n\" d=\"M40,0 L160,120 L167,120 L47,0Z\" fill=\"#ea4795\"/><path class=\"n\" d=\"M55,0 L175,120 L182,120 L62,0Z\" fill=\"#ea4795\"/><path class=\"n\" d=\"M70,0 L190,120 L197,120 L77,0Z\" fill=\"#ea4795\"/></g><path d=\"M25.5,103.5 L18.5,96.5 L56.2,50.2 L71.8,65.8Z\"/><ellipse cx=\"64\" cy=\"58\" rx=\"11\" ry=\"4.2\" transform=\"rotate(45 64 58)\" fill=\"#fbf6ee\"/><path d=\"M18.5,96.5 L25.5,103.5 L21,108 L14,101Z\" fill=\"#ea4795\"/><g class=\"a tw\" style=\"--d:3.2s;--dl:-1s;--o:50% 50%;\"><path d=\"M96.0,16.0 Q97.0,21.0 102.0,22.0 Q97.0,23.0 96.0,28.0 Q95.0,23.0 90.0,22.0 Q95.0,21.0 96.0,16.0Z\" fill=\"#f7dc72\" /></g><g class=\"a tw\" style=\"--d:3.2s;--dl:-2s;--o:50% 50%;\"><path class=\"t\" d=\"M98.0,66.0H106.0M102.0,62.0V70.0\" /></g><g class=\"a tw\" style=\"--d:3.2s;--dl:-0.5s;--o:50% 50%;\"><path class=\"t\" d=\"M68.5,20.0H75.5M72.0,16.5V23.5\" /></g></svg>"], "disco": ["כדור דיסקו", "<svg class=\"il\" viewBox=\"0 0 120 120\" aria-hidden=\"true\" focusable=\"false\"><path d=\"M60,8 V30\" stroke-width=\"1.8\"/><rect x=\"54\" y=\"30\" width=\"12\" height=\"7\" rx=\"2\" fill=\"#ece3d5\"/><g class=\"a sway\" style=\"--d:3s;--dl:0s;--o:50% 0%;--r:3deg\"><g><clipPath id=\"i27c\"><circle cx=\"60\" cy=\"64\" r=\"28\"/></clipPath><circle cx=\"60\" cy=\"64\" r=\"28\" fill=\"#c9b8ec\"/><g clip-path=\"url(#i27c)\"><rect x=\"60\" y=\"36\" width=\"8\" height=\"8\" fill=\"#ffffff\" stroke=\"none\" opacity=\".75\"/><rect x=\"52\" y=\"44\" width=\"8\" height=\"8\" fill=\"#ffffff\" stroke=\"none\" opacity=\".75\"/><rect x=\"76\" y=\"44\" width=\"8\" height=\"8\" fill=\"#ffffff\" stroke=\"none\" opacity=\".75\"/><rect x=\"44\" y=\"52\" width=\"8\" height=\"8\" fill=\"#ffffff\" stroke=\"none\" opacity=\".75\"/><rect x=\"68\" y=\"52\" width=\"8\" height=\"8\" fill=\"#ffffff\" stroke=\"none\" opacity=\".75\"/><rect x=\"36\" y=\"60\" width=\"8\" height=\"8\" fill=\"#ffffff\" stroke=\"none\" opacity=\".75\"/><rect x=\"60\" y=\"60\" width=\"8\" height=\"8\" fill=\"#ffffff\" stroke=\"none\" opacity=\".75\"/><rect x=\"52\" y=\"68\" width=\"8\" height=\"8\" fill=\"#ffffff\" stroke=\"none\" opacity=\".75\"/><rect x=\"76\" y=\"68\" width=\"8\" height=\"8\" fill=\"#ffffff\" stroke=\"none\" opacity=\".75\"/><rect x=\"44\" y=\"76\" width=\"8\" height=\"8\" fill=\"#ffffff\" stroke=\"none\" opacity=\".75\"/><rect x=\"68\" y=\"76\" width=\"8\" height=\"8\" fill=\"#ffffff\" stroke=\"none\" opacity=\".75\"/><rect x=\"60\" y=\"84\" width=\"8\" height=\"8\" fill=\"#ffffff\" stroke=\"none\" opacity=\".75\"/><path class=\"n\" d=\"M32,64 A28,28 0 0 0 88,64 Q60,76 32,64Z\" fill=\"#a994da\"/><path class=\"t\" d=\"M45.6,40 H74.4\"/><path class=\"t\" d=\"M37.0,48 H83.0\"/><path class=\"t\" d=\"M33.2,56 H86.8\"/><path class=\"t\" d=\"M32.0,64 H88.0\"/><path class=\"t\" d=\"M33.2,72 H86.8\"/><path class=\"t\" d=\"M37.0,80 H83.0\"/><path class=\"t\" d=\"M45.6,88 H74.4\"/><path class=\"t\" d=\"M60,36 V92\"/><ellipse class=\"t\" cx=\"60\" cy=\"64\" rx=\"8\" ry=\"28\" fill=\"none\"/><ellipse class=\"t\" cx=\"60\" cy=\"64\" rx=\"17\" ry=\"28\" fill=\"none\"/><ellipse class=\"t\" cx=\"60\" cy=\"64\" rx=\"24\" ry=\"28\" fill=\"none\"/></g><circle cx=\"60\" cy=\"64\" r=\"28\" fill=\"none\"/><path class=\"h\" d=\"M44,52 l6,0 l0,6 l-6,0Z M52,46 l6,0 l0,5 l-6,0Z\"/></g></g><g class=\"a tw\" style=\"--d:2.6s;--dl:0s;--o:50% 50%;--r:90deg\"><path d=\"M84.0,42.0 Q85.3,48.7 92.0,50.0 Q85.3,51.3 84.0,58.0 Q82.7,51.3 76.0,50.0 Q82.7,48.7 84.0,42.0Z\" fill=\"#ffffff\" /></g><g class=\"a tw\" style=\"--d:2.6s;--dl:-1.3s;--o:50% 50%;--r:90deg\"><path d=\"M40.0,74.0 Q41.0,79.0 46.0,80.0 Q41.0,81.0 40.0,86.0 Q39.0,81.0 34.0,80.0 Q39.0,79.0 40.0,74.0Z\" fill=\"#ffffff\" /></g><g class=\"a tw\" style=\"--d:3.4s;--dl:-0.6s;--o:50% 50%;--r:-90deg\"><path d=\"M100.0,78.0 Q101.0,83.0 106.0,84.0 Q101.0,85.0 100.0,90.0 Q99.0,85.0 94.0,84.0 Q99.0,83.0 100.0,78.0Z\" fill=\"#f7dc72\" /></g><g class=\"a tw\" style=\"--d:3.4s;--dl:-2s;--o:50% 50%;--r:90deg\"><path d=\"M20.0,41.0 Q20.8,45.2 25.0,46.0 Q20.8,46.8 20.0,51.0 Q19.2,46.8 15.0,46.0 Q19.2,45.2 20.0,41.0Z\" fill=\"#ea4795\" /></g><path class=\"t\" d=\"M24,98 l6,-4 M96,22 l-5,4 M104,60 h-6\"/></svg>"], "sparks": ["נצנוצים", "<svg class=\"il\" viewBox=\"0 0 120 120\" aria-hidden=\"true\" focusable=\"false\"><g class=\"a tw\" style=\"--d:3s;--dl:0s;--o:50% 50%;--r:45deg\"><path d=\"M54.0,36.0 Q58.7,57.3 80.0,62.0 Q58.7,66.7 54.0,88.0 Q49.3,66.7 28.0,62.0 Q49.3,57.3 54.0,36.0Z\" fill=\"#f7dc72\" /></g><g class=\"a tw\" style=\"--d:3s;--dl:-1s;--o:50% 50%;--r:-45deg\"><path d=\"M88.0,17.0 Q90.3,27.7 101.0,30.0 Q90.3,32.3 88.0,43.0 Q85.7,32.3 75.0,30.0 Q85.7,27.7 88.0,17.0Z\" fill=\"#ea4795\" /></g><g class=\"a tw\" style=\"--d:3s;--dl:-2s;--o:50% 50%;--r:45deg\"><path d=\"M90.0,79.0 Q91.6,86.4 99.0,88.0 Q91.6,89.6 90.0,97.0 Q88.4,89.6 81.0,88.0 Q88.4,86.4 90.0,79.0Z\" fill=\"#ffffff\" /></g><circle cx=\"30\" cy=\"28\" r=\"1.6\" fill=\"#1b1a19\" stroke=\"none\"/><circle cx=\"102\" cy=\"60\" r=\"1.4\" fill=\"#1b1a19\" stroke=\"none\"/><circle class=\"t\" cx=\"22\" cy=\"96\" r=\"2.4\" fill=\"none\"/><g class=\"a tw\" style=\"--d:3s;--dl:-0.5s;--o:50% 50%;\"><path class=\"t\" d=\"M22.5,46.0H29.5M26.0,42.5V49.5\" /></g></svg>"], "star": ["כוכב שחור", "<svg class=\"il\" viewBox=\"0 0 40 40\" aria-hidden=\"true\" focusable=\"false\"><g class=\"a twk\" style=\"--d:5.5s;--r:45deg\"><path d=\"M20 2c1.6 9.6 8.4 16.4 18 18-9.6 1.6-16.4 8.4-18 18-1.6-9.6-8.4-16.4-18-18 9.6-1.6 16.4-8.4 18-18Z\" fill=\"#000\" stroke=\"#000\" /></g></svg>"], "bstar": ["כוכב תכלת", "<svg class=\"il\" viewBox=\"0 0 40 40\" aria-hidden=\"true\" focusable=\"false\"><g class=\"a twk\" style=\"--d:6s;--dl:-1s;--r:45deg\"><path d=\"M20 2c1.6 9.6 8.4 16.4 18 18-9.6 1.6-16.4 8.4-18 18-1.6-9.6-8.4-16.4-18-18 9.6-1.6 16.4-8.4 18-18Z\" fill=\"#a4e9ff\" stroke-width=\"2.4\" /></g></svg>"], "pstar": ["כוכב ורוד", "<svg class=\"il\" viewBox=\"0 0 40 40\" aria-hidden=\"true\" focusable=\"false\"><g class=\"a twk\" style=\"--d:6.4s;--dl:-2s;--r:-45deg\"><path d=\"M20 2c1.6 9.6 8.4 16.4 18 18-9.6 1.6-16.4 8.4-18 18-1.6-9.6-8.4-16.4-18-18 9.6-1.6 16.4-8.4 18-18Z\" fill=\"#ea4795\" stroke-width=\"2.4\" /></g></svg>"], "cross": ["פלוס", "<svg class=\"il\" viewBox=\"0 0 16 16\" aria-hidden=\"true\" focusable=\"false\"><g class=\"a twk\" style=\"--d:7s;--dl:-3s;--r:0deg\"><path d=\"M8 2v12M2 8h12\" stroke-width=\"1.6\" /></g></svg>"]};
+  const PLACEMENTS = {"m": [["sparks", "top", 19.4, 35, 40, -6], ["star", "top", 21.8, 66.2, 22, -10], ["pstar", "top", 12.2, 91, 16, -14], ["popper", "order", 12.3, 6.9, 56, -6], ["bstar", "order", 9.4, 77.8, 18, -10], ["cross", "order", 83, 84.2, 14, 0], ["disco", "recs", 27.8, 17, 48, 6], ["cross", "recs", 28.2, 92.6, 14, 0], ["glass", "story", 31.4, 13.8, 46, 5], ["pstar", "story", 61.4, 7.8, 18, 18], ["star", "story", 58.6, 55, 16, -14]], "d": [["sparks", "top", 18.2, 19, 56, -6], ["star", "top", 51.4, 7.4, 20, -10], ["bstar", "top", 35.8, 53.8, 24, 18], ["cross", "top", 28.2, 90.2, 22, 0], ["pstar", "top", 14.6, 87.8, 22, 12], ["popper", "order", 27, 10.6, 84, 5], ["star", "order", 36.6, 78.2, 26, 18], ["cross", "order", 61.4, 84.6, 18, 0], ["disco", "recs", 59.8, 19, 76, -6], ["glass", "story", 62.2, 25.4, 70, 5], ["pstar", "story", 87.4, 14.2, 26, 18], ["bstar", "story", 85.8, 84.2, 22, -14]]};
   const SECS = ['top', 'order', 'recs', 'story'];
   const KEY = 'dugri-r13-placements';
   const bp = () => (innerWidth >= 900 ? 'd' : 'm');

diff --git a/redesign/directions/README-r13.md b/redesign/directions/README-r13.md
@@ -42,7 +42,24 @@ The "הסיפור שלנו" sticker is gone. The order is the title "איך דו
 - **Phone:** one column in that order.
 - **Desktop:** the title spans the width, the photos come first (right) and the text sits beside them.
 
-The new order moved three illustrations onto text: the pink star after the heading (phone and desktop) and a black star in the text (phone). Each went to the nearest spot that is clear at every width (`placefix.mjs`), keeping its kind, size and turn. Every other placement is as she left it.
+## 4b. The owner's placements (update, same day)
+
+`PLACEMENTS` is now Alma's layout from the `#place` editor, verbatim: 11 on a phone and 12 on desktop, in her positions, sizes and turns.
+
+There is a new kind, **"bstar"** ("כוכב תכלת" in the editor's palette): the 4-point star in the site's light blue `#a4e9ff` with the black outline, twinkling like the others. About half of her black stars now use it, alternating down the page:
+- **Phone:** black (hero), blue (designs), black (story).
+- **Desktop:** black, blue (hero), black (designs), blue (story).
+
+She can switch any star between the two kinds herself next time.
+
+**Overlaps, left as she placed them.** The overlap check finds these on text (her story positions match the r12 layout, from before the story reorder):
+- `pstar story 61.4, 7.8` (phone) sits on the heading "איך דוגרי נולד", between "דוגרי" and "נולד".
+- `star story 58.6, 55` (phone) sits on the first paragraph, on "ועלמה".
+- `pstar story 87.4, 14.2` (desktop) sits on "דוגרי" in the heading.
+- `popper order 12.3, 6.9` (phone) touches the end of "העיצובים שלנו" at 360 px wide only (clear at 390 and 430).
+- `cross order 83, 84.2` (phone) touches the "בונים את המשחק" button under reduced motion only (the designs become a static grid).
+
+The earlier r13 build had moved the first three; that move is undone in favour of her layout.
 
 ## 5. Menu
 
@@ -121,14 +138,12 @@ Playwright, Chromium and WebKit, phone 390×844 (touch) and desktop 1440×900 (m
   - The chooser's ‹ › and its list work.
 - **Business:** the WhatsApp link goes to 972546577715 and the phone link to +972546577715.
 - **r12's checks, rerun on r13** (phones 360/390, desktops 1100/1440, reduced motion):
-  - no illustration on content;
+  - illustrations: only the overlaps listed in 4b;
   - 0 dealt cards on the hero text;
   - options a and b fit every design;
   - the designs page shows 10 views with b's facts;
   - the editor works by mouse and by touch;
   - the review row stays still under a resting finger.
-
-One finding is left for Alma's placement: under reduced motion the designs become a static grid, and the small "+" at `order 83, 84.2` then touches the "בונים את המשחק" button on a phone.
 
 impeccable's detector reports the same accepted findings as r12: the outlined yellow and sky fills, the cream page and the hidden headings' hierarchy.
 
